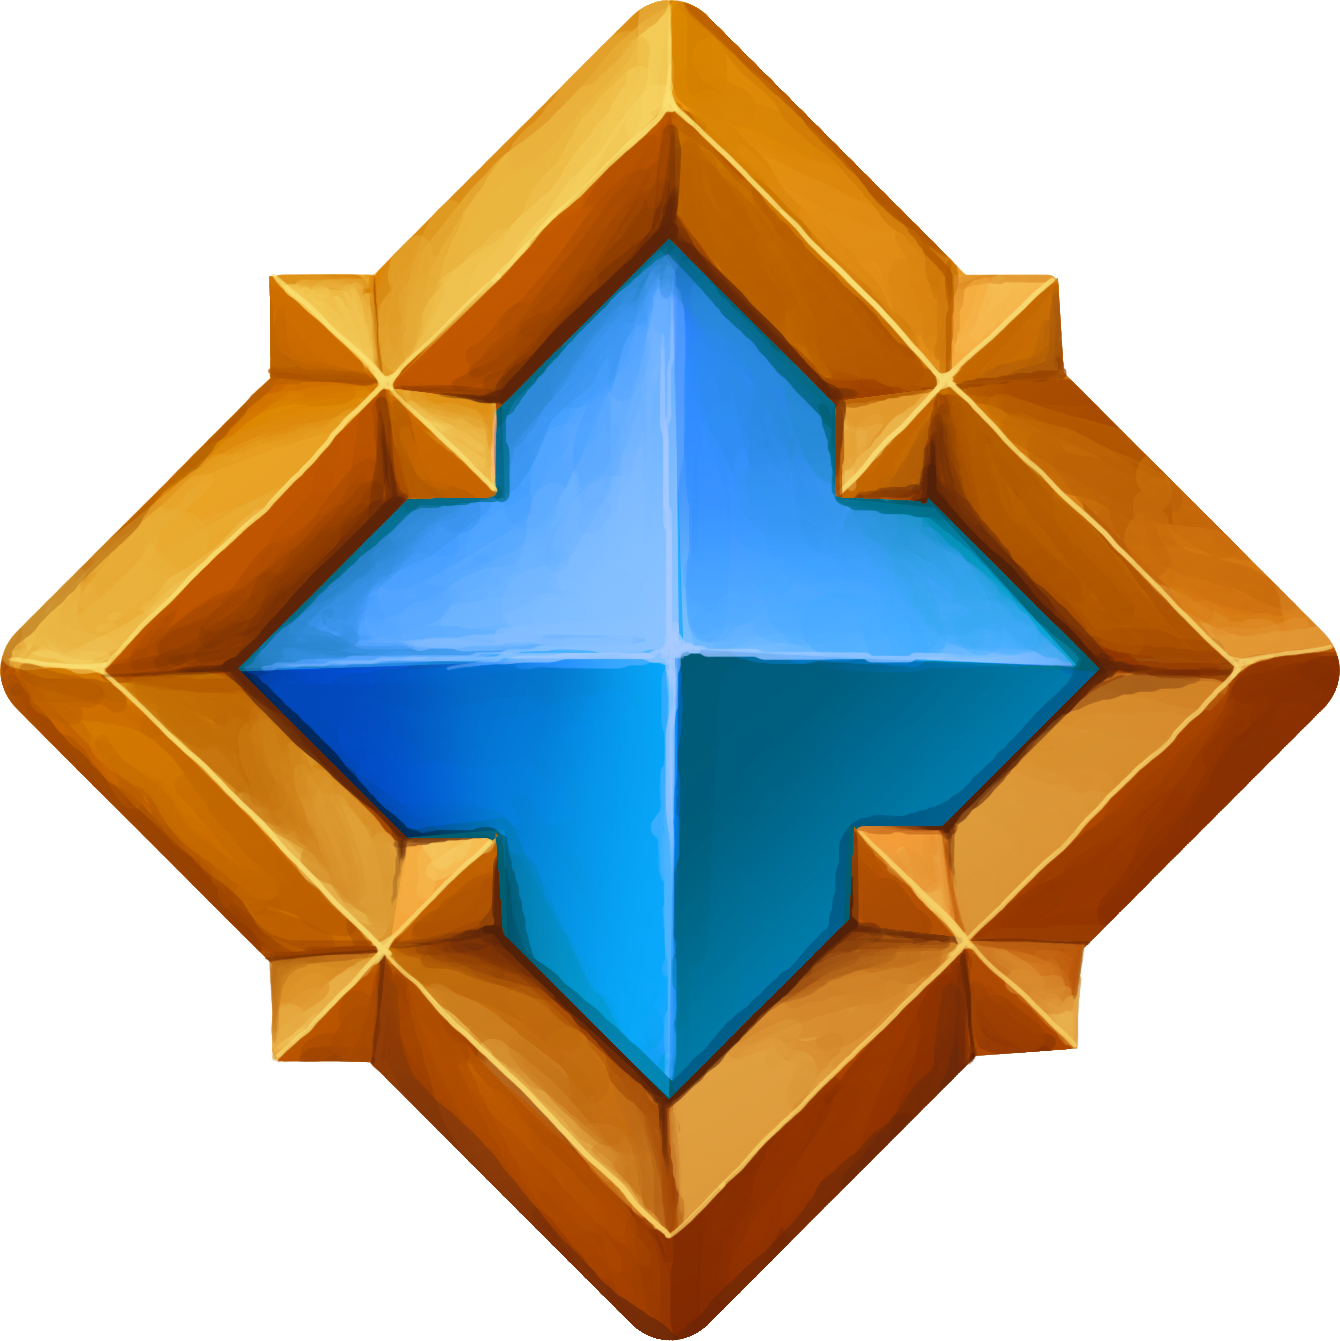
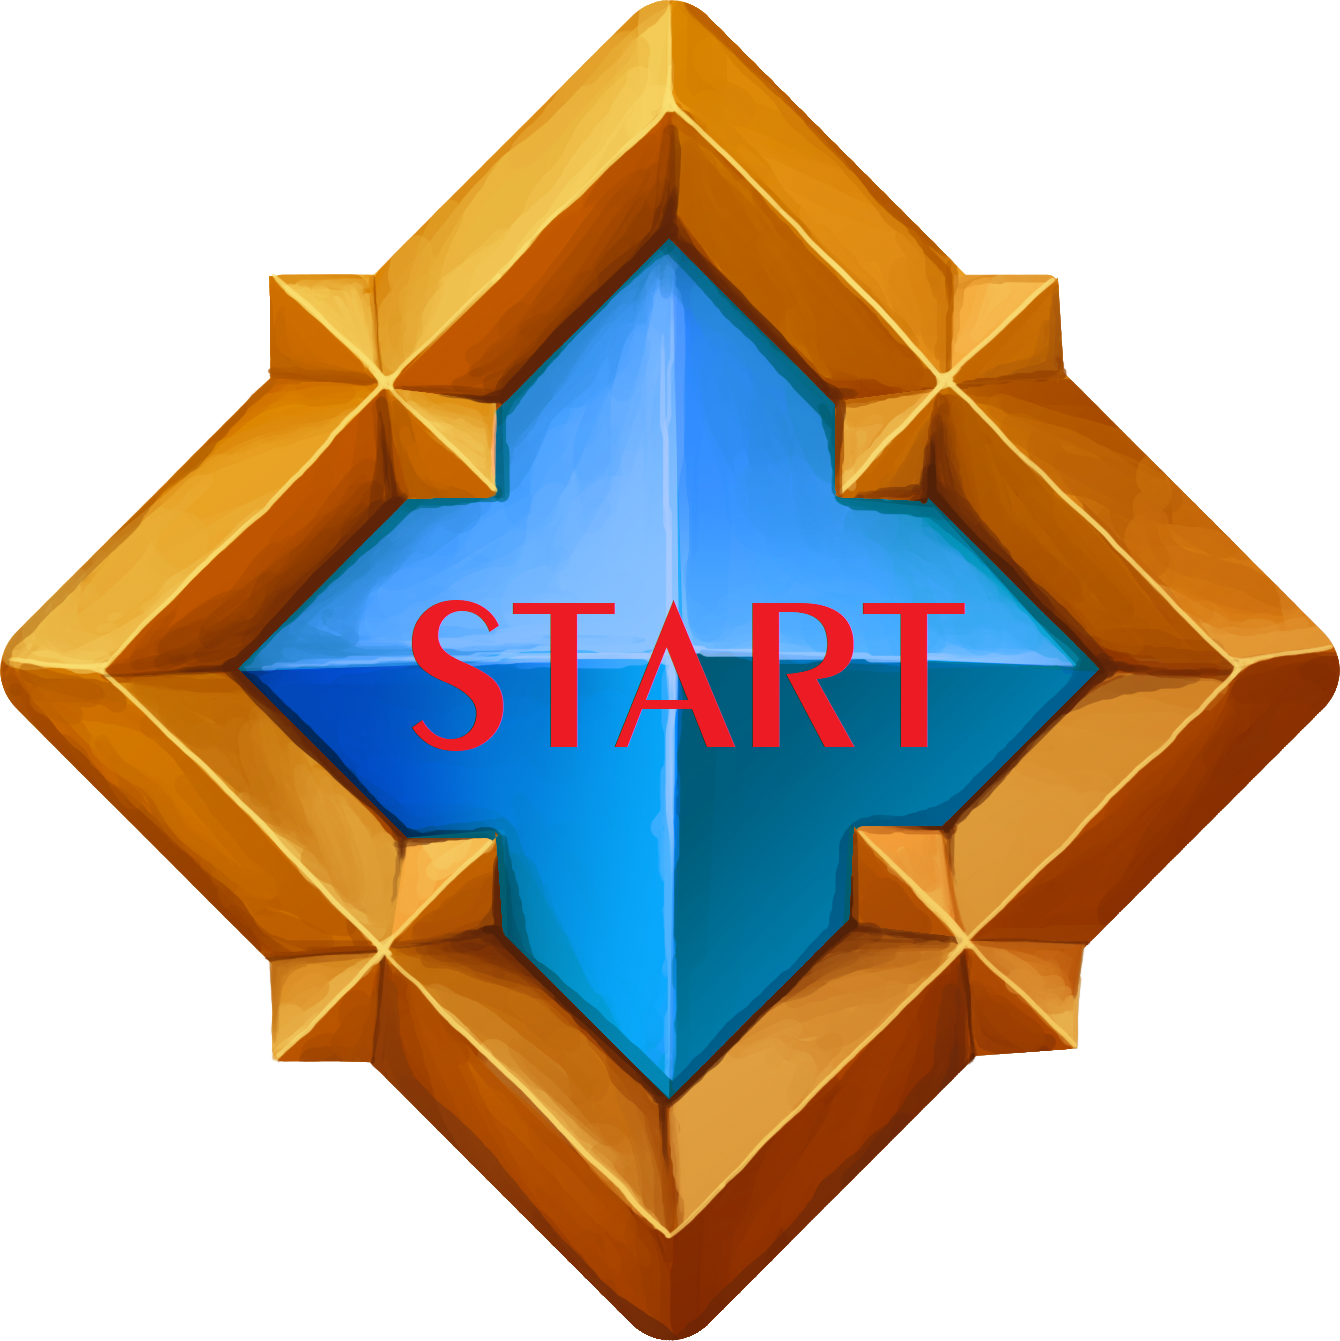
Added a button to restart game, it's color changes when mouse hover and it becomes clicky when clicked.
Added a button to restart game, it's color changes when mouse hover and it becomes clicky when clicked.

Changed region(s): [[0.459, 0.428, 0.6425, 0.5809], [0.306, 0.428, 0.459, 0.5809], [0.6425, 0.428, 0.7343, 0.5809]]

diff --git a/Assets/Scripts/UIButton.cs b/Assets/Scripts/UIButton.cs
@@ -1,0 +1,60 @@
+using System.Collections;
+using System.Collections.Generic;
+using UnityEngine;
+
+public class UIButton : MonoBehaviour
+{
+    // reference a target object to inform about clicks
+    [SerializeField] GameObject targetObject;
+    [SerializeField] string targetMessage;
+    public Color highlightColor = Color.cyan;
+
+    public void OnMouseEnter()
+    {
+        SpriteRenderer sprite = GetComponent<SpriteRenderer>();
+        if (sprite != null)
+        {
+            // tint the button when the mouse hovers over it.
+            sprite.color = highlightColor;
+        }
+    }
+
+    public void OnMouseExit()
+    {
+        SpriteRenderer sprite = GetComponent<SpriteRenderer>();
+        if (sprite != null)
+        {
+            // tint the button when the mouse hovers over it.
+            sprite.color = Color.white;
+        }
+    }
+
+    public void OnMouseDown()
+    {
+        // button size pops a bit when it's clicked
+        transform.localScale = new Vector3(1.1f, 1.1f, 1.1f);
+    }
+
+    public void OnMouseUp()
+    {
+        transform.localScale = Vector3.one;
+        if (targetObject != null)
+        {
+            // send a message to the target object when the button is clicked
+            targetObject.SendMessage(targetMessage);
+        }
+    }
+
+
+    // Start is called before the first frame update
+    void Start()
+    {
+        
+    }
+
+    // Update is called once per frame
+    void Update()
+    {
+        
+    }
+}
